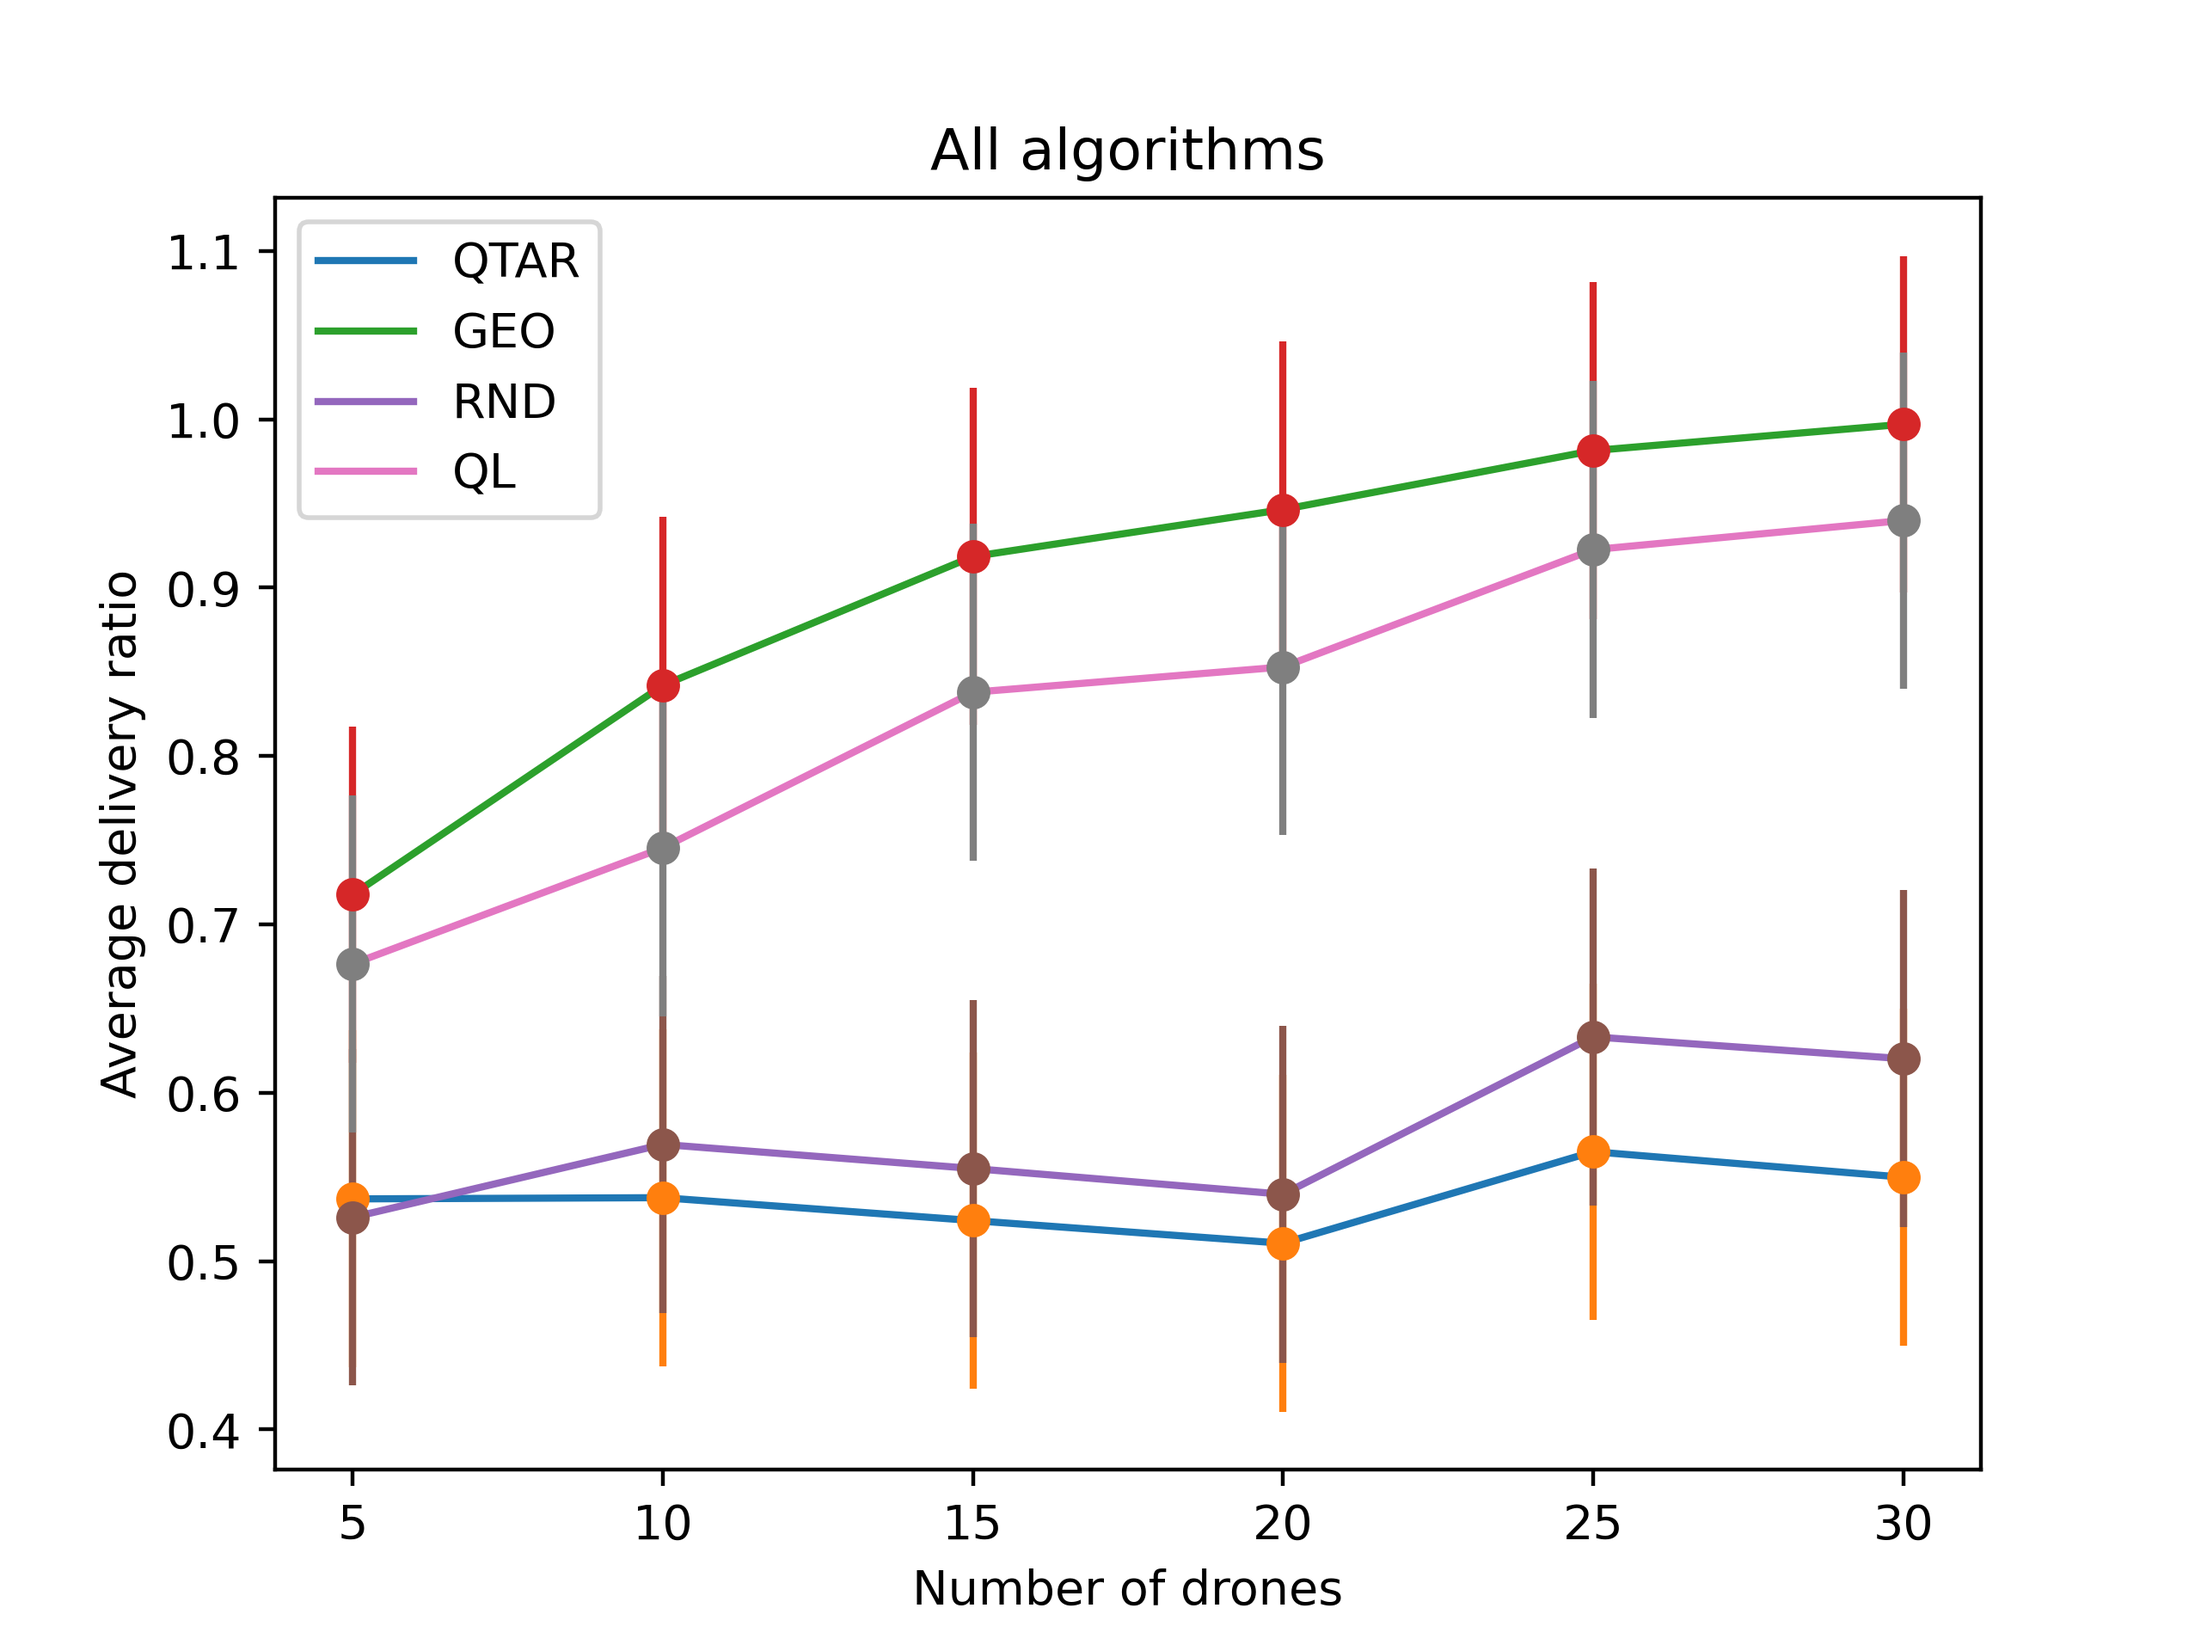
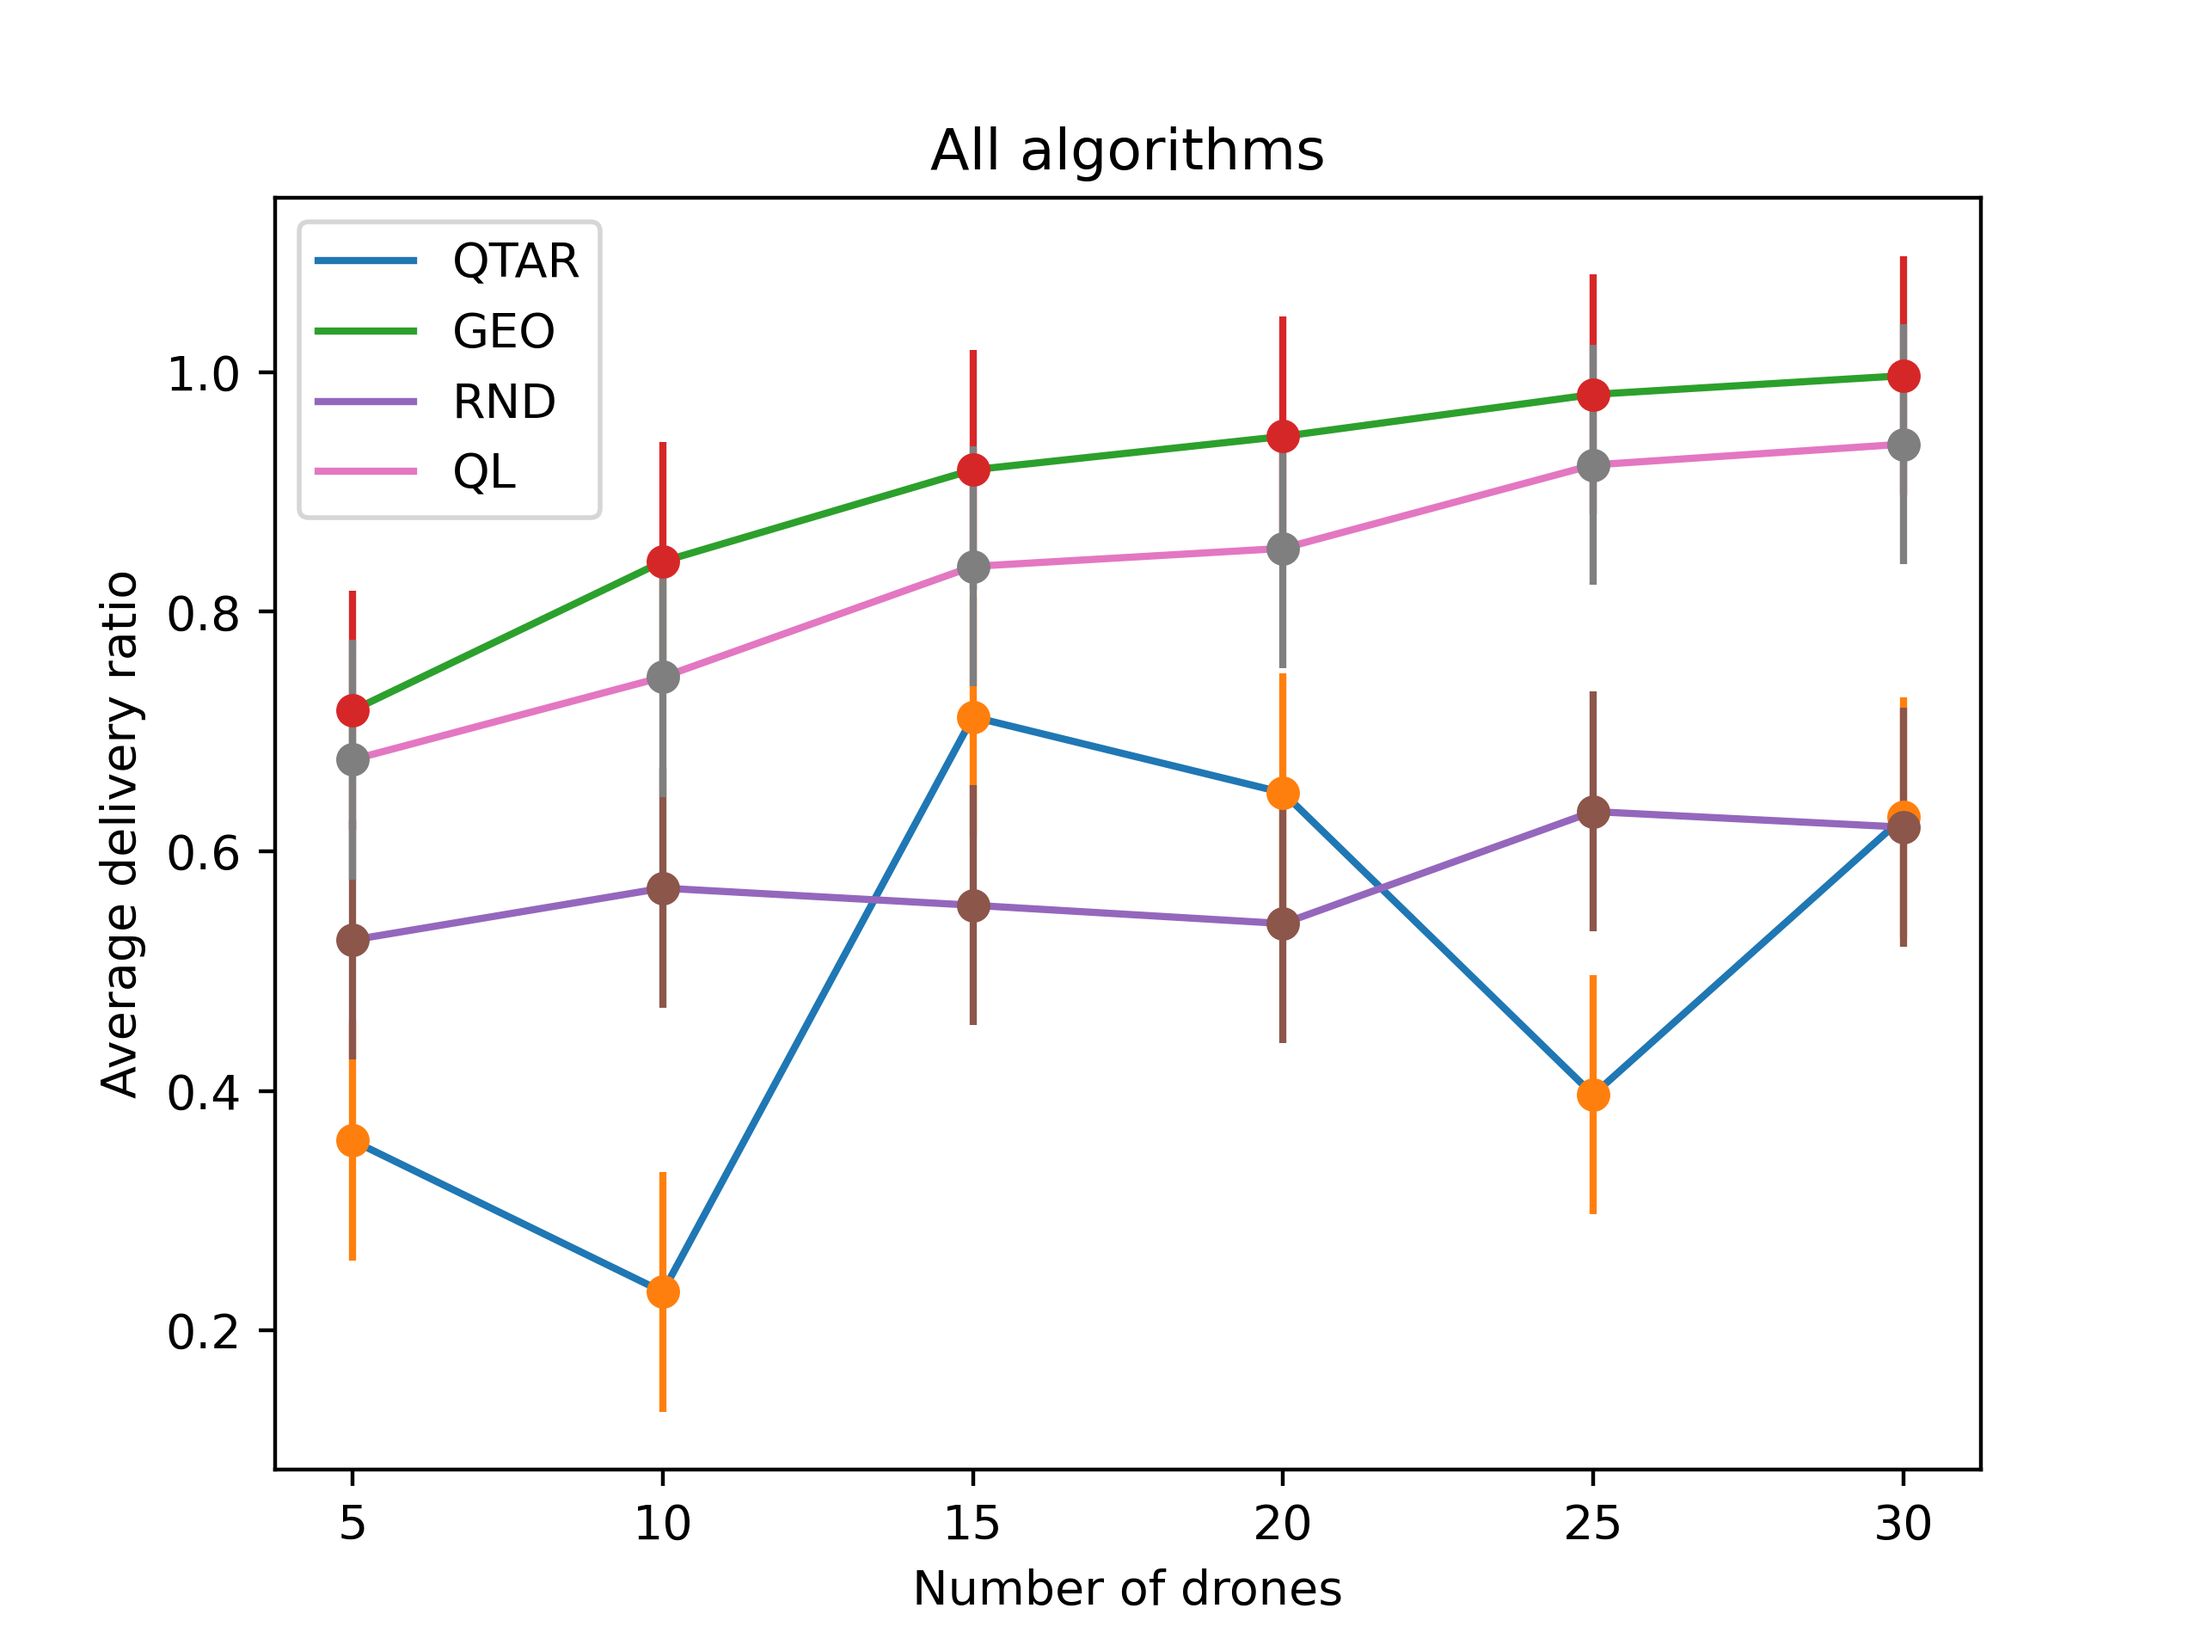
plots and jsons

diff --git a/src/routing_algorithms/qtar_routing.py b/src/routing_algorithms/qtar_routing.py
@@ -10,9 +10,9 @@ class QTARRouting(ADVANCED_Routing):
         ADVANCED_Routing.__init__(self, drone=drone, simulator=simulator)
         self.taken_actions = {}  # id event : (old_state, old_action)
         self.q_table = np.zeros(self.simulator.n_drones)
-        self.A = 0.7  # delay importance
-        self.B = 0.2  # speed importance
-        self.C = 0.1  # energy importance
+        self.A = 0.1  # delay importance
+        self.B = 0.5  # speed importance
+        self.C = 0.4  # energy importance
         self.rmin = -np.inf  # minimum reward
         self.rmax = -np.inf  # maximum reward
 
@@ -80,10 +80,10 @@ class QTARRouting(ADVANCED_Routing):
                 speed = util.two_hop_speed(self.drone, one_hop_neighbor, two_hop_neighbor, self.simulator)
                 remaining_ttl = self.simulator.packets_max_ttl - (self.simulator.cur_step - packet.time_step_creation)
                 required_speed = util.compute_required_speed(two_hop_neighbor, remaining_ttl, self.simulator)
+                selected_sum_speed += speed
+                selected_sum_energy += two_hop_neighbor.residual_energy / self.simulator.drone_max_energy
                 if speed > required_speed:
                     selected_drones.append((one_hop_neighbor, two_hop_neighbor))
-                    selected_sum_speed += speed
-                    selected_sum_energy += two_hop_neighbor.residual_energy / self.simulator.drone_max_energy
 
         # if there is a drone near the depot, select it
         if drone_near_depot_id != -1:

diff --git a/src/utilities/config.py b/src/utilities/config.py
@@ -41,7 +41,7 @@ DEBUG = False                         # bool: whether to print debug strings or 
 EXPERIMENTS_DIR = "data/evaluation_tests/"  # output data : the results of the simulation
 
 # drawaing
-PLOT_SIM = True      # bool: whether to plot or not the simulation.
+PLOT_SIM = False      # bool: whether to plot or not the simulation.
 WAIT_SIM_STEP = 0 #.1     # float: seconds, pauses the rendering for 'DELAY_PLOT' seconds.
 SKIP_SIM_STEP = 10      # int: steps, plot the simulation every 'RENDERING_STEP' steps. At least 1.
 DRAW_SIZE = 700       # int: size of the drawing window.

diff --git a/src/simulation/simulator.py b/src/simulation/simulator.py
@@ -44,7 +44,7 @@ class Simulator:
                  communication_error_type=config.CHANNEL_ERROR_TYPE,
                  prob_size_cell_r=config.CELL_PROB_SIZE_R,
                  simulation_name=""):
-        self.moving_depot = True
+        self.moving_depot = False
         self.cur_step = 0
         self.drone_com_range = drone_com_range
         self.drone_sen_range = drone_sen_range
